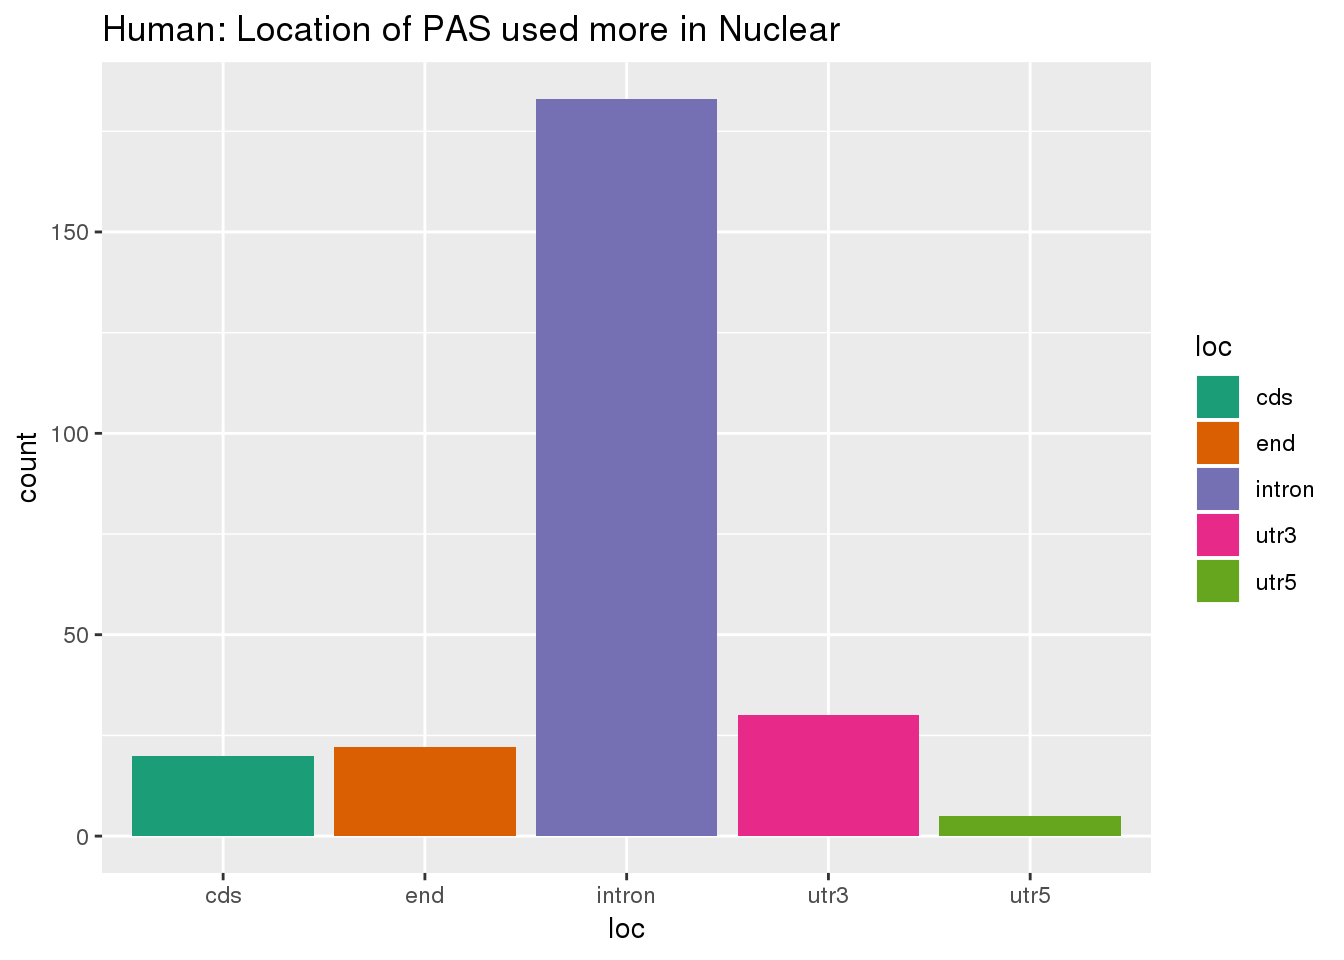
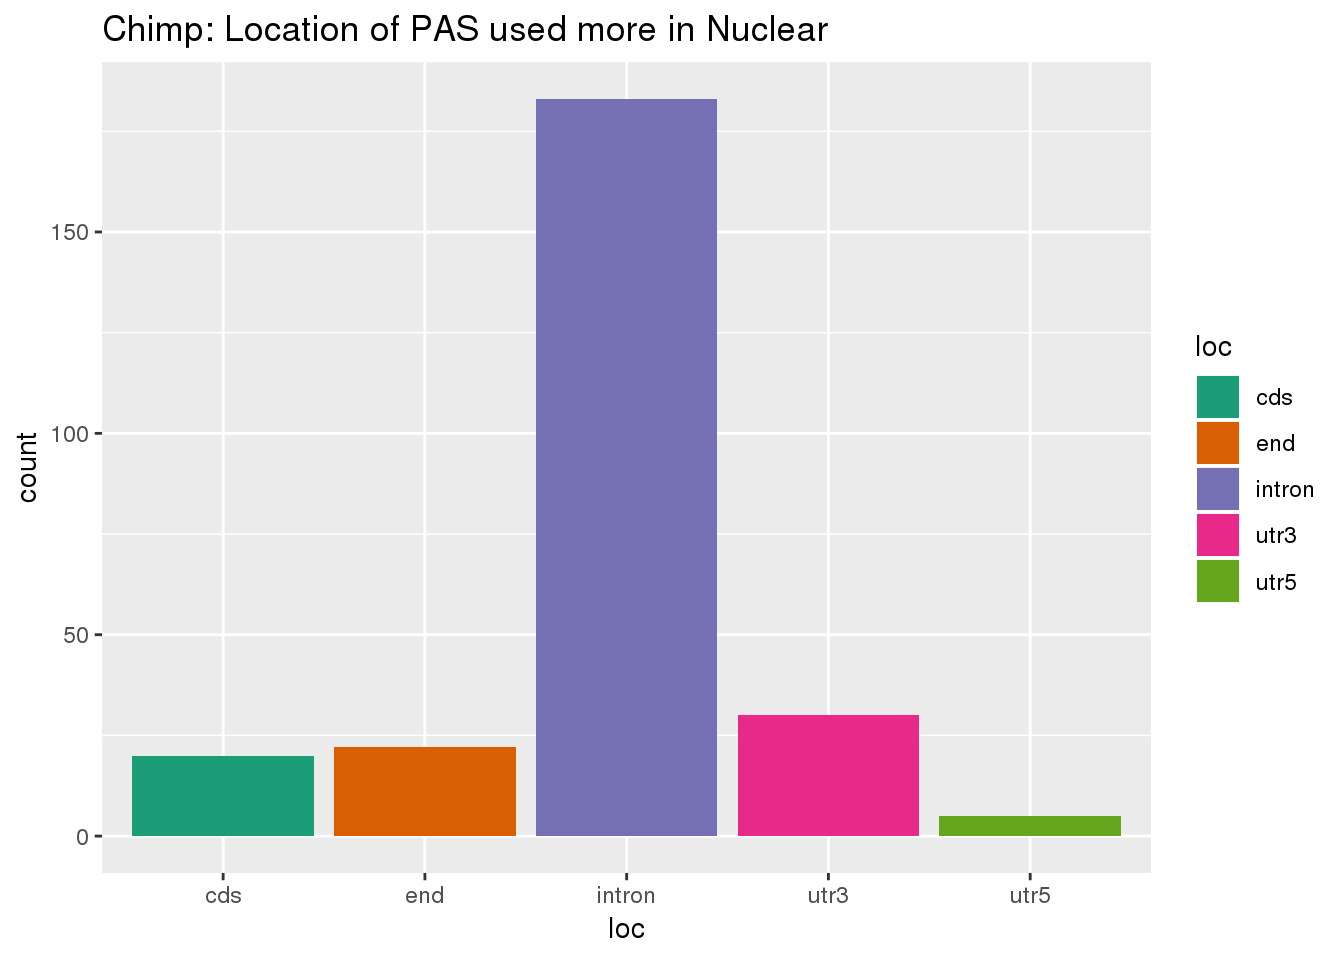
Build site.

Changed region(s): [[0.0625, 0.0, 0.625, 0.0625]]

diff --git a/docs/Chimp_TvN.html b/docs/Chimp_TvN.html
@@ -434,10 +434,10 @@ This reproducible <a href="http://rmarkdown.rstudio.com">R Markdown</a> analysis
 <div class="panel panel-default">
 <div class="panel-heading">
 <p class="panel-title">
-<a data-toggle="collapse" data-parent="#workflowr-checks" href="#strongRepositoryversionstrongahrefhttpsgithubcombrimittlemanComparativeAPAtree8466418b6d4c0ffcd929c72be17919cd9a9e15fatargetblank8466418a"> <span class="glyphicon glyphicon-ok text-success" aria-hidden="true"></span> <strong>Repository version:</strong> <a href="https://github.com/brimittleman/Comparative_APA/tree/8466418b6d4c0ffcd929c72be17919cd9a9e15fa" target="_blank">8466418</a> </a>
+<a data-toggle="collapse" data-parent="#workflowr-checks" href="#strongRepositoryversionstrongahrefhttpsgithubcombrimittlemanComparativeAPAtree42636875823deeb5feb7a8c3894f6acba0f75a9etargetblank4263687a"> <span class="glyphicon glyphicon-ok text-success" aria-hidden="true"></span> <strong>Repository version:</strong> <a href="https://github.com/brimittleman/Comparative_APA/tree/42636875823deeb5feb7a8c3894f6acba0f75a9e" target="_blank">4263687</a> </a>
 </p>
 </div>
[2 lines of base64/hex data omitted]
 <div class="panel-body">
 <p>
 Great! You are using Git for version control. Tracking code development and connecting the code version to the results is critical for reproducibility. The version displayed above was the version of the Git repository at the time these results were generated. <br><br> Note that you need to be careful to ensure that all relevant files for the analysis have been committed to Git prior to generating the results (you can use <code>wflow_publish</code> or <code>wflow_git_commit</code>). workflowr only checks the R Markdown file, but you know if there are other scripts or data files that it depends on. Below is the status of the Git repository when the results were generated:
@@ -638,7 +638,6 @@ Untracked files:
     Untracked:  data/metadata_HCpanel.xlsx
     Untracked:  data/primaryLift/
     Untracked:  data/reverseLift/
-    Untracked:  docs/figure/Human_TvN.Rmd/
 
 </code></pre>
 <p>
@@ -677,6 +676,40 @@ Message
 </tr>
 </thead>
 <tbody>
+<tr>
+<td>
+Rmd
+</td>
+<td>
+<a href="https://github.com/brimittleman/Comparative_APA/blob/42636875823deeb5feb7a8c3894f6acba0f75a9e/analysis/Chimp_TvN.Rmd" target="_blank">4263687</a>
+</td>
+<td>
+brimittleman
+</td>
+<td>
+2019-10-07
+</td>
+<td>
+fix graph label
+</td>
+</tr>
+<tr>
+<td>
+html
+</td>
+<td>
+<a href="https://rawcdn.githack.com/brimittleman/Comparative_APA/62b52858e9126962a155603ccdea553c7a096c92/docs/Chimp_TvN.html" target="_blank">62b5285</a>
+</td>
+<td>
+brimittleman
+</td>
+<td>
+2019-10-07
+</td>
+<td>
+Build site.
+</td>
+</tr>
 <tr>
 <td>
 Rmd
@@ -796,6 +829,43 @@ sig$p.adjust=as.numeric(as.character(sig$p.adjust))</code></pre>
 <pre class="r"><code>qqplot(-log10(runif(nrow(sig))), -log10(sig$p.adjust),ylab=&quot;-log10 Total Adjusted Leafcutter pvalue&quot;, xlab=&quot;-log 10 Uniform expectation&quot;, main=&quot;Chimp: Leafcutter differencial isoform analysis between fractions&quot;)
 abline(0,1)</code></pre>
 <p><img src="figure/Chimp_TvN.Rmd/unnamed-chunk-8-1.png" width="672" style="display: block; margin: auto;" /></p>
+<p>
+<button type="button" class="btn btn-default btn-xs btn-workflowr btn-workflowr-fig" data-toggle="collapse" data-target="#fig-unnamed-chunk-8-1">
+Past versions of unnamed-chunk-8-1.png
+</button>
+</p>
+<div id="fig-unnamed-chunk-8-1" class="collapse">
+<div class="table-responsive">
+<table class="table table-condensed table-hover">
+<thead>
+<tr>
+<th>
+Version
+</th>
+<th>
+Author
+</th>
+<th>
+Date
+</th>
+</tr>
+</thead>
+<tbody>
+<tr>
+<td>
+<a href="https://github.com/brimittleman/Comparative_APA/blob/62b52858e9126962a155603ccdea553c7a096c92/docs/figure/Chimp_TvN.Rmd/unnamed-chunk-8-1.png" target="_blank">62b5285</a>
+</td>
+<td>
+brimittleman
+</td>
+<td>
+2019-10-07
+</td>
+</tr>
+</tbody>
+</table>
+</div>
+</div>
 <pre class="r"><code>tested_genes=nrow(sig)
 tested_genes</code></pre>
 <pre><code>[1] 7571</code></pre>
@@ -810,6 +880,43 @@ effectsize$deltaPAU=as.numeric(as.character(effectsize$deltaPAU))
 effectsize$logef=as.numeric(as.character(effectsize$logef))</code></pre>
 <pre class="r"><code>plot(sort(effectsize$deltaPAU),main=&quot;Chimp: Leafcutter delta PAU&quot;, ylab=&quot;Delta PAU&quot;, xlab=&quot;PAS Index&quot;)</code></pre>
 <p><img src="figure/Chimp_TvN.Rmd/unnamed-chunk-12-1.png" width="672" style="display: block; margin: auto;" /></p>
+<p>
+<button type="button" class="btn btn-default btn-xs btn-workflowr btn-workflowr-fig" data-toggle="collapse" data-target="#fig-unnamed-chunk-12-1">
+Past versions of unnamed-chunk-12-1.png
+</button>
+</p>
+<div id="fig-unnamed-chunk-12-1" class="collapse">
+<div class="table-responsive">
+<table class="table table-condensed table-hover">
+<thead>
+<tr>
+<th>
+Version
+</th>
+<th>
+Author
+</th>
+<th>
+Date
+</th>
+</tr>
+</thead>
+<tbody>
+<tr>
+<td>
+<a href="https://github.com/brimittleman/Comparative_APA/blob/62b52858e9126962a155603ccdea553c7a096c92/docs/figure/Chimp_TvN.Rmd/unnamed-chunk-12-1.png" target="_blank">62b5285</a>
+</td>
+<td>
+brimittleman
+</td>
+<td>
+2019-10-07
+</td>
+</tr>
+</tbody>
+</table>
+</div>
+</div>
 <pre class="r"><code>effectsize_deltaPAU= effectsize %&gt;% filter(abs(deltaPAU) &gt; .2) 
 nrow(effectsize_deltaPAU)</code></pre>
 <pre><code>[1] 1153</code></pre>
@@ -825,14 +932,88 @@ PAS$start=as.character(PAS$start)
 PAS$end=as.character(PAS$end)</code></pre>
 <p>Increased usage in nuclear:</p>
 <pre class="r"><code>effectsize_deltaPAU_nuclear= effectsize_deltaPAU %&gt;% filter(deltaPAU &lt; -0.2) %&gt;% separate(intron,into=c(&quot;chr&quot;, &quot;start&quot;, &quot;end&quot;, &quot;gene&quot;), sep=&quot;:&quot; )%&gt;% inner_join(PAS, by=c(&quot;gene&quot;, &quot;chr&quot;,&quot;start&quot;, &quot;end&quot;))</code></pre>
-<pre class="r"><code>ggplot(effectsize_deltaPAU_nuclear,aes(x=loc,fill=loc)) + geom_histogram(stat=&quot;count&quot;) + scale_fill_brewer(palette = &quot;Dark2&quot;) +labs(title=&quot;Human: Location of PAS used more in Nuclear&quot;)</code></pre>
+<pre class="r"><code>ggplot(effectsize_deltaPAU_nuclear,aes(x=loc,fill=loc)) + geom_histogram(stat=&quot;count&quot;) + scale_fill_brewer(palette = &quot;Dark2&quot;) +labs(title=&quot;Chimp: Location of PAS used more in Nuclear&quot;)</code></pre>
 <pre><code>Warning: Ignoring unknown parameters: binwidth, bins, pad</code></pre>
 <p><img src="figure/Chimp_TvN.Rmd/unnamed-chunk-18-1.png" width="672" style="display: block; margin: auto;" /></p>
+<p>
+<button type="button" class="btn btn-default btn-xs btn-workflowr btn-workflowr-fig" data-toggle="collapse" data-target="#fig-unnamed-chunk-18-1">
+Past versions of unnamed-chunk-18-1.png
+</button>
+</p>
+<div id="fig-unnamed-chunk-18-1" class="collapse">
+<div class="table-responsive">
+<table class="table table-condensed table-hover">
+<thead>
+<tr>
+<th>
+Version
+</th>
+<th>
+Author
+</th>
+<th>
+Date
+</th>
+</tr>
+</thead>
+<tbody>
+<tr>
+<td>
+<a href="https://github.com/brimittleman/Comparative_APA/blob/62b52858e9126962a155603ccdea553c7a096c92/docs/figure/Chimp_TvN.Rmd/unnamed-chunk-18-1.png" target="_blank">62b5285</a>
+</td>
+<td>
+brimittleman
+</td>
+<td>
+2019-10-07
+</td>
+</tr>
+</tbody>
+</table>
+</div>
+</div>
 <p>Increased usage in total:</p>
 <pre class="r"><code>effectsize_deltaPAU_total= effectsize_deltaPAU %&gt;% filter(deltaPAU &gt; 0.2)  %&gt;% separate(intron,into=c(&quot;chr&quot;, &quot;start&quot;, &quot;end&quot;, &quot;gene&quot;), sep=&quot;:&quot; )%&gt;% inner_join(PAS, by=c(&quot;gene&quot;, &quot;chr&quot;,&quot;start&quot;, &quot;end&quot;))</code></pre>
-<pre class="r"><code>ggplot(effectsize_deltaPAU_total,aes(x=loc,fill=loc)) + geom_histogram(stat=&quot;count&quot;) + scale_fill_brewer(palette = &quot;Dark2&quot;) +labs(title=&quot;Human: Location of PAS used more in Total&quot;)</code></pre>
+<pre class="r"><code>ggplot(effectsize_deltaPAU_total,aes(x=loc,fill=loc)) + geom_histogram(stat=&quot;count&quot;) + scale_fill_brewer(palette = &quot;Dark2&quot;) +labs(title=&quot;Chimp: Location of PAS used more in Total&quot;)</code></pre>
 <pre><code>Warning: Ignoring unknown parameters: binwidth, bins, pad</code></pre>
 <p><img src="figure/Chimp_TvN.Rmd/unnamed-chunk-20-1.png" width="672" style="display: block; margin: auto;" /></p>
+<p>
+<button type="button" class="btn btn-default btn-xs btn-workflowr btn-workflowr-fig" data-toggle="collapse" data-target="#fig-unnamed-chunk-20-1">
+Past versions of unnamed-chunk-20-1.png
+</button>
+</p>
+<div id="fig-unnamed-chunk-20-1" class="collapse">
+<div class="table-responsive">
+<table class="table table-condensed table-hover">
+<thead>
+<tr>
+<th>
+Version
+</th>
+<th>
+Author
+</th>
+<th>
+Date
+</th>
+</tr>
+</thead>
+<tbody>
+<tr>
+<td>
+<a href="https://github.com/brimittleman/Comparative_APA/blob/62b52858e9126962a155603ccdea553c7a096c92/docs/figure/Chimp_TvN.Rmd/unnamed-chunk-20-1.png" target="_blank">62b5285</a>
+</td>
+<td>
+brimittleman
+</td>
+<td>
+2019-10-07
+</td>
+</tr>
+</tbody>
+</table>
+</div>
+</div>
 <p>This is in line with expectation. Now I can compare this to the number of discovered PAS by plotting the proportion of PAS used more in each fraction by location.</p>
 <pre class="r"><code>PAS_loc =PAS%&gt;% group_by(loc) %&gt;% summarise(nloc=n())</code></pre>
 <pre class="r"><code>effectsize_deltaPAU_nuclear_loc=effectsize_deltaPAU_nuclear %&gt;% group_by(loc) %&gt;% summarise(nlocNuclear=n()) 
@@ -850,6 +1031,43 @@ effectsize_deltaPAUProp_both_melt$Fraction=as.character(effectsize_deltaPAUProp_
 <p>Plot this:</p>
 <pre class="r"><code>ggplot(effectsize_deltaPAUProp_both_melt, aes(x=loc, y=Proportion, by=Fraction, fill=Fraction)) + geom_bar(stat=&quot;identity&quot;, position=&quot;dodge&quot;) + scale_fill_brewer(palette = &quot;Dark2&quot;)+ labs(title=&quot;Chimp: Proportion of PAS differential used by location&quot;,x=&quot;&quot;) +scale_x_discrete(labels = c(&#39;Coding&#39;,&#39;5kb downstream&#39;,&#39;Intronic&#39;,&quot;3&#39; UTR&quot;, &quot;5&#39; UTR&quot;)) </code></pre>
 <p><img src="figure/Chimp_TvN.Rmd/unnamed-chunk-23-1.png" width="672" style="display: block; margin: auto;" /></p>
+<p>
+<button type="button" class="btn btn-default btn-xs btn-workflowr btn-workflowr-fig" data-toggle="collapse" data-target="#fig-unnamed-chunk-23-1">
+Past versions of unnamed-chunk-23-1.png
+</button>
+</p>
+<div id="fig-unnamed-chunk-23-1" class="collapse">
+<div class="table-responsive">
+<table class="table table-condensed table-hover">
+<thead>
+<tr>
+<th>
+Version
+</th>
+<th>
+Author
+</th>
+<th>
+Date
+</th>
+</tr>
+</thead>
+<tbody>
+<tr>
+<td>
+<a href="https://github.com/brimittleman/Comparative_APA/blob/62b52858e9126962a155603ccdea553c7a096c92/docs/figure/Chimp_TvN.Rmd/unnamed-chunk-23-1.png" target="_blank">62b5285</a>
+</td>
+<td>
+brimittleman
+</td>
+<td>
+2019-10-07
+</td>
+</tr>
+</tbody>
+</table>
+</div>
+</div>
 <br>
 <p>
 <button type="button" class="btn btn-default btn-workflowr btn-workflowr-sessioninfo" data-toggle="collapse" data-target="#workflowr-sessioninfo" style="display: block;">
